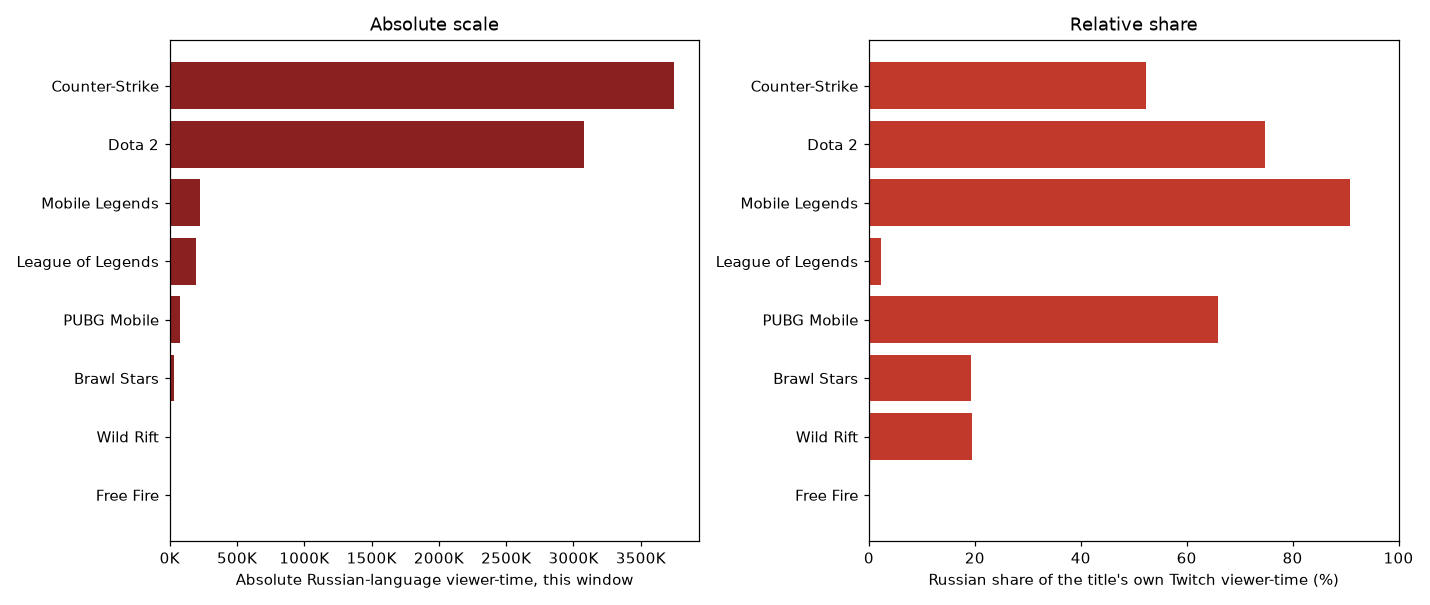
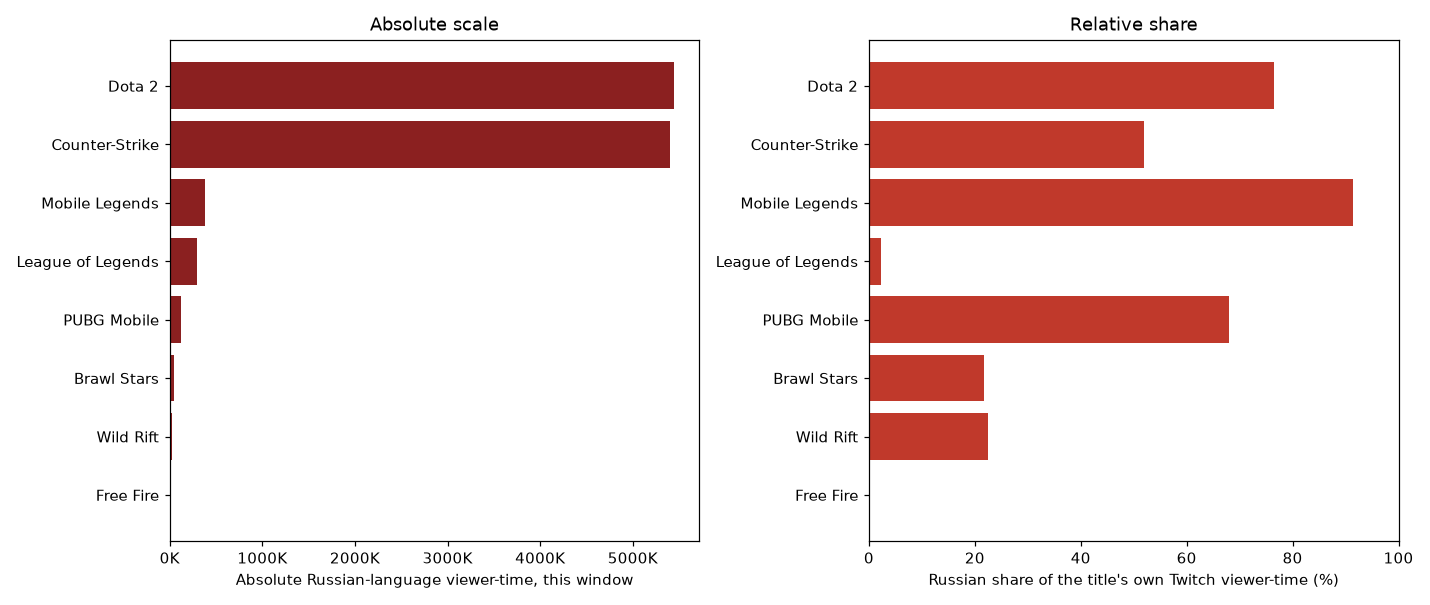
Add regenerated MLBB figures and the LPDB compliance email draft
The two PNGs are the real output of mlbb_russia_deep_dive.ipynb's
2026-10-02 re-execution -- missed alongside that notebook's own commit.
The email draft was written earlier this session and never committed.

diff --git a/docs/lpdb_compliance_email_draft.md b/docs/lpdb_compliance_email_draft.md
@@ -1,0 +1,66 @@
+Subject: fandomdatapuller — LPDB access, compliance steps taken and in progress
+
+Hi [LPDB contact name],
+
+Thank you again for approving API access. Following up, as requested, now
+that we're live and pulling real data — here's what we've done to make
+sure we're using the API correctly and crediting Liquipedia properly, plus
+two open questions we'd like to confirm with you directly.
+
+**Project link**: https://github.com/JacobH1994/fandomdatapuller — public,
+open source (MIT for our own code), as you asked.
+
+**API usage, not scraping**
+
+We're using the documented v3 REST API directly (`Authorization: Apikey`
+header, `wiki` parameter, structured SQL-like `conditions` queries) —
+never crawling or scraping Liquipedia pages. A descriptive `User-Agent`
+identifying the project and this contact email is sent on every request.
+
+We've been deliberately conservative on rate: your documented limit is 60
+requests/hour, and our collector enforces that as a hard ceiling — tracked
+across every run (not just a single process), persisted so it survives
+restarts, with each individual run capped further below the real limit to
+leave headroom rather than constantly running at the edge. We check this
+budget before every batch of work rather than assuming it's safe.
+
+**Attribution**
+
+- Liquipedia-derived data in our repo (`data/reference/*.jsonl`) carries
+  its own `README.md` crediting Liquipedia by name, linking to
+  liquipedia.net and your Copyrights page, and stating the CC BY-SA
+  license explicitly — kept separate from our own MIT-licensed code, not
+  blended into one blanket license.
+- Every external-facing report we've published citing Liquipedia data
+  credits it by name with a link in its Sources section (e.g. "Liquipedia
+  — an independent, community-maintained esports wiki, used here under its
+  CC BY-SA license").
+- We understand from [name]'s earlier note that citation via our reports
+  is sufficient for that use case — noted and already in place.
+
+**Two things we'd like to confirm directly, rather than assume:**
+
+1. Does that same attribution standard (credit via our published
+   reports/blog) also cover **committing Liquipedia-derived data to our
+   public GitHub repo** in structured/machine-readable form
+   (`data/reference/*.jsonl`), or would you want repo-level attribution
+   handled differently — e.g. a more prominent notice, or a link back to
+   the specific Liquipedia pages the data originated from?
+2. Is there any **retention limit** we should be aware of for LPDB-sourced
+   data specifically — i.e., is it fine for us to keep this data
+   indefinitely once pulled, the way we already do for our own collected
+   data, or does your license/terms expect periodic refresh or deletion?
+
+**What's next on our end**: we're in the process of pulling tournament,
+player, and broadcast data for the rest of our tracked titles (several are
+already complete; the remainder are running on an automated schedule that
+respects the rate limit above, not a manual burst). We'll follow up once
+that's further along, and again before we publish anything derived from
+player or broadcast data specifically, in case that raises different
+considerations than tournament data has.
+
+Happy to answer any questions about our usage pattern or share more detail
+on any of the above.
+
+Thanks again,
+Jacob
